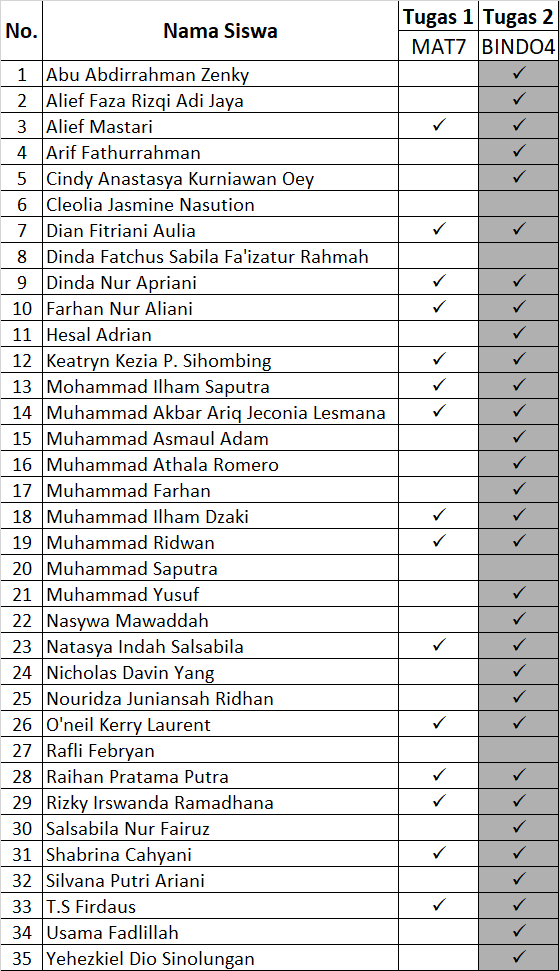
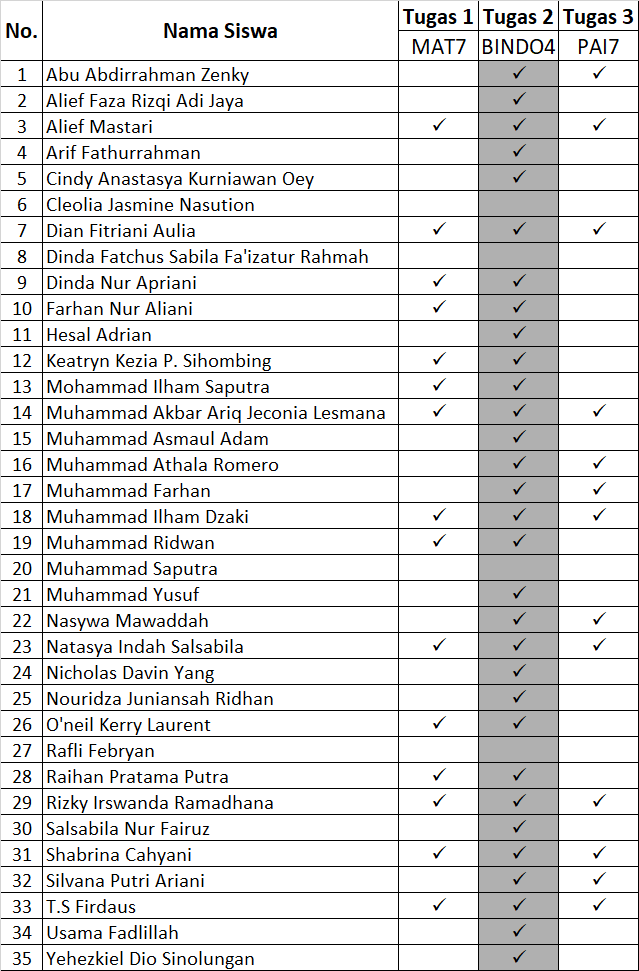
File Update

diff --git a/Excel/Program/files.py b/Excel/Program/files.py
@@ -34,11 +34,11 @@ wb_bulanan_image_name = [
 
 global weekly_task_start_column_range, weekly_task_end_column_range
 weekly_task_start_column_range = [3, 8, 16, 23, 26, 34, 39]
-weekly_task_end_column_range   = [8, 16, 23, 26, 34, 39, 41]
+weekly_task_end_column_range   = [8, 16, 23, 26, 34, 39, 42]
 
 global monthly_task_start_column_range,monthly_task_end_column_range
 monthly_task_start_column_range = [3, 34]
-monthly_task_end_column_range   = [34, 41]
+monthly_task_end_column_range   = [34, 42]
 
 global wb_bulanan_start_container, wb_bulanan_end_container # How much week it contains
 wb_bulanan_start_container = [1, 6]
@@ -48,4 +48,4 @@ global wb_bulanan_subtract
 wb_bulanan_subtract = [0, 31]
 
 global combined_task_range
-combined_task_range = "A1:AN42"
+combined_task_range = "A1:AO42"
